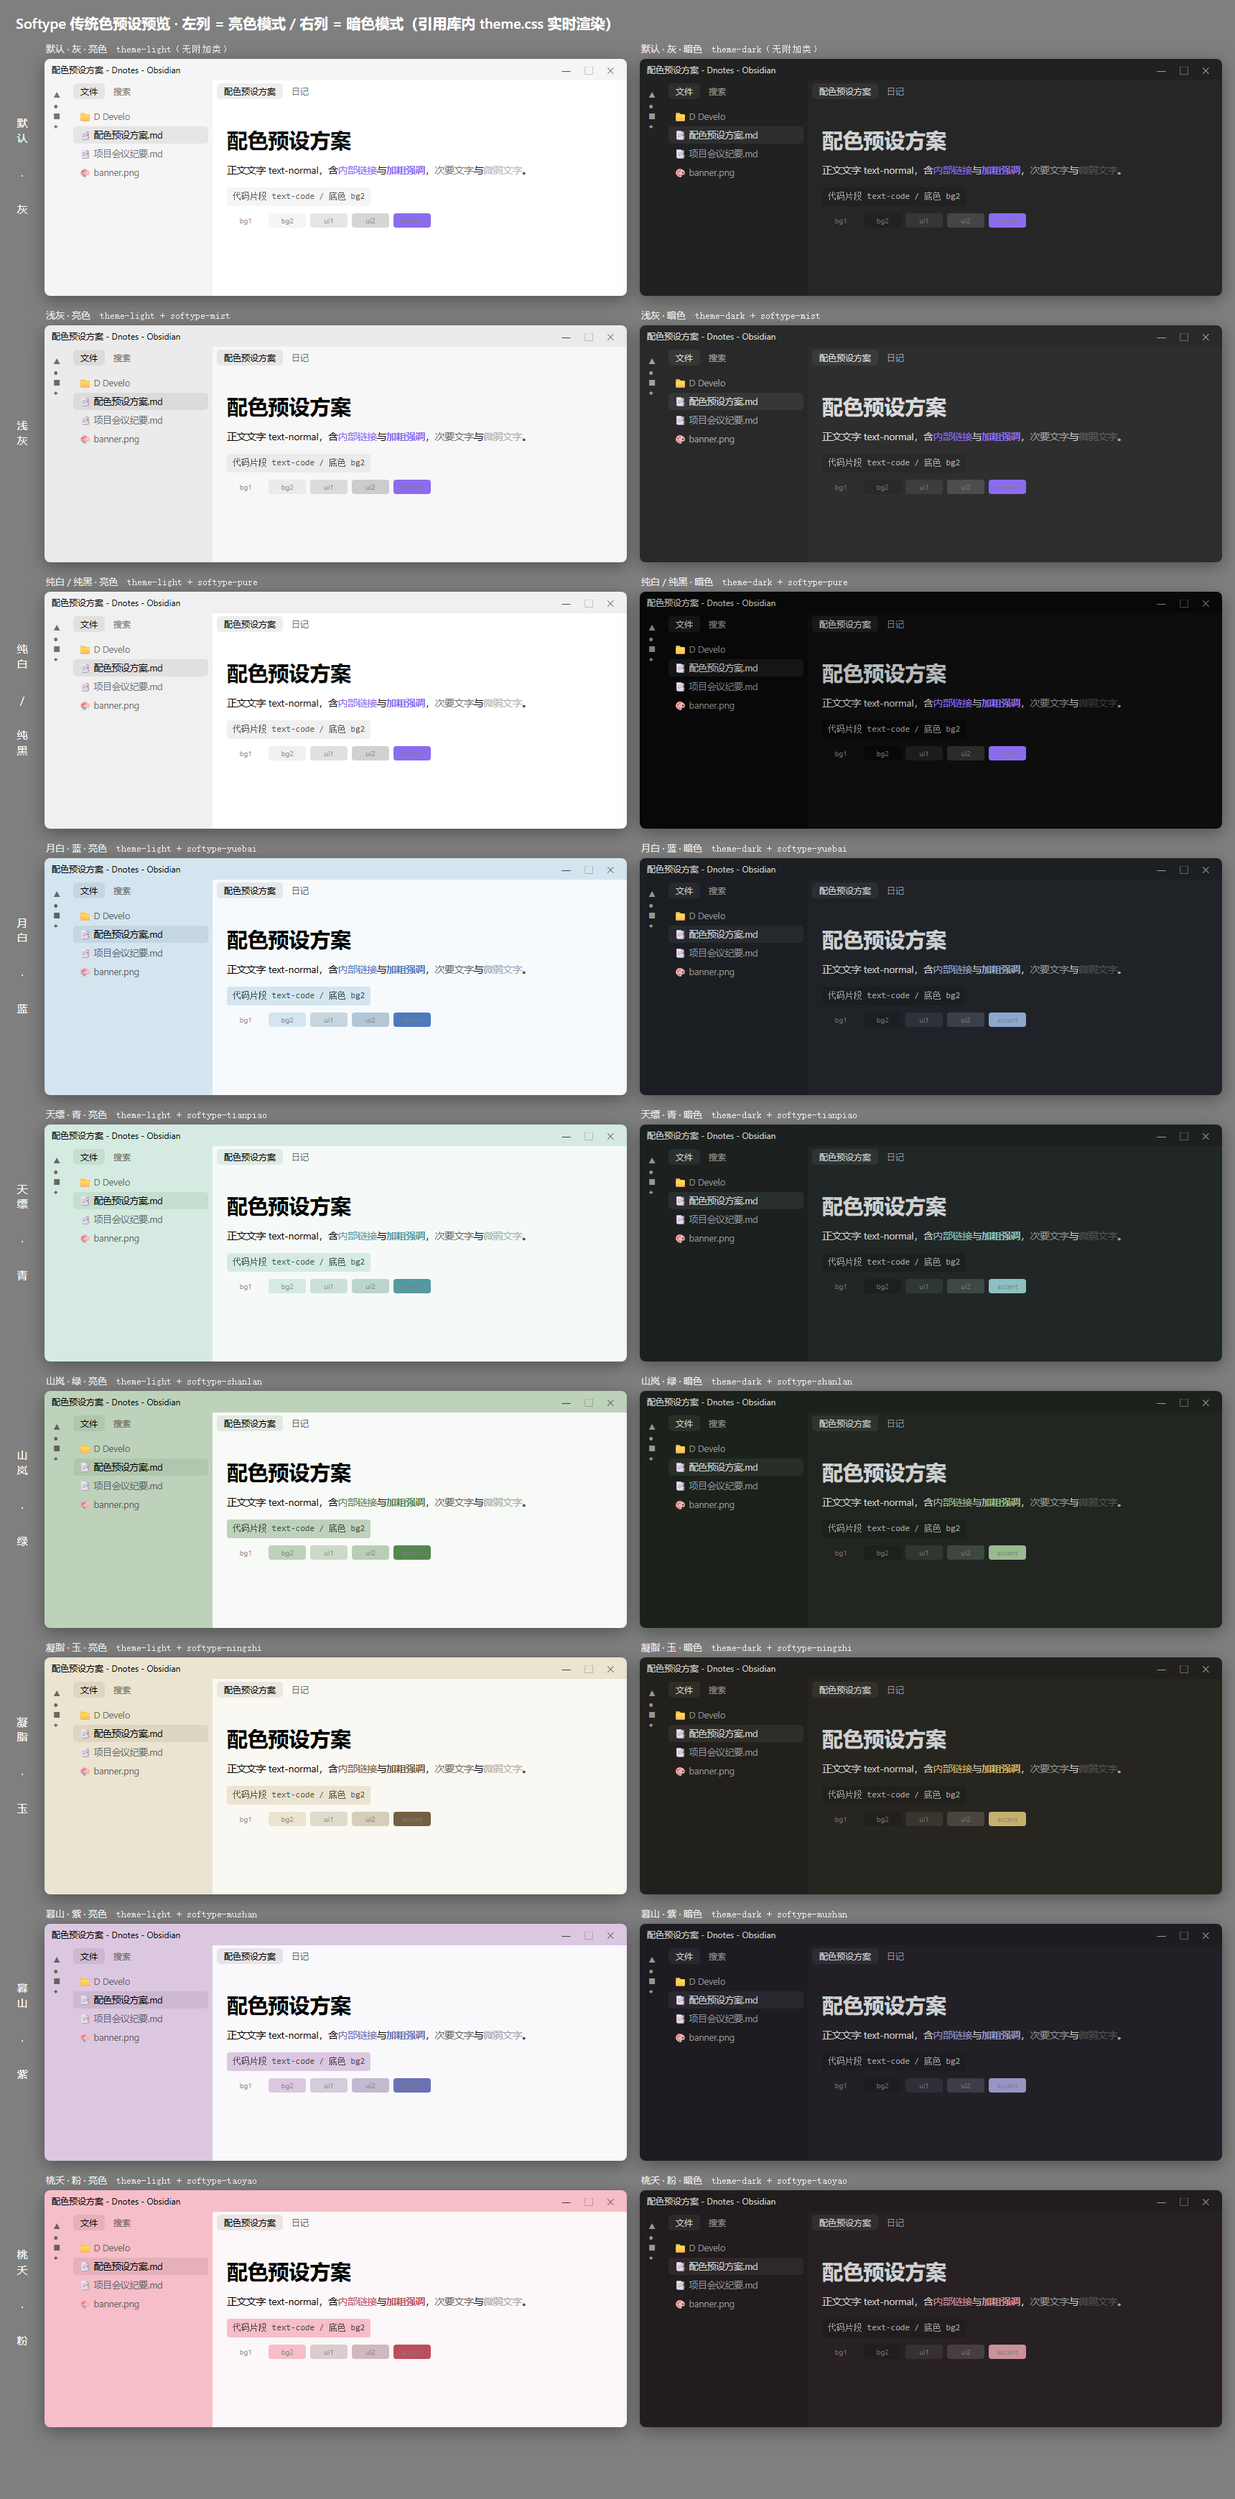
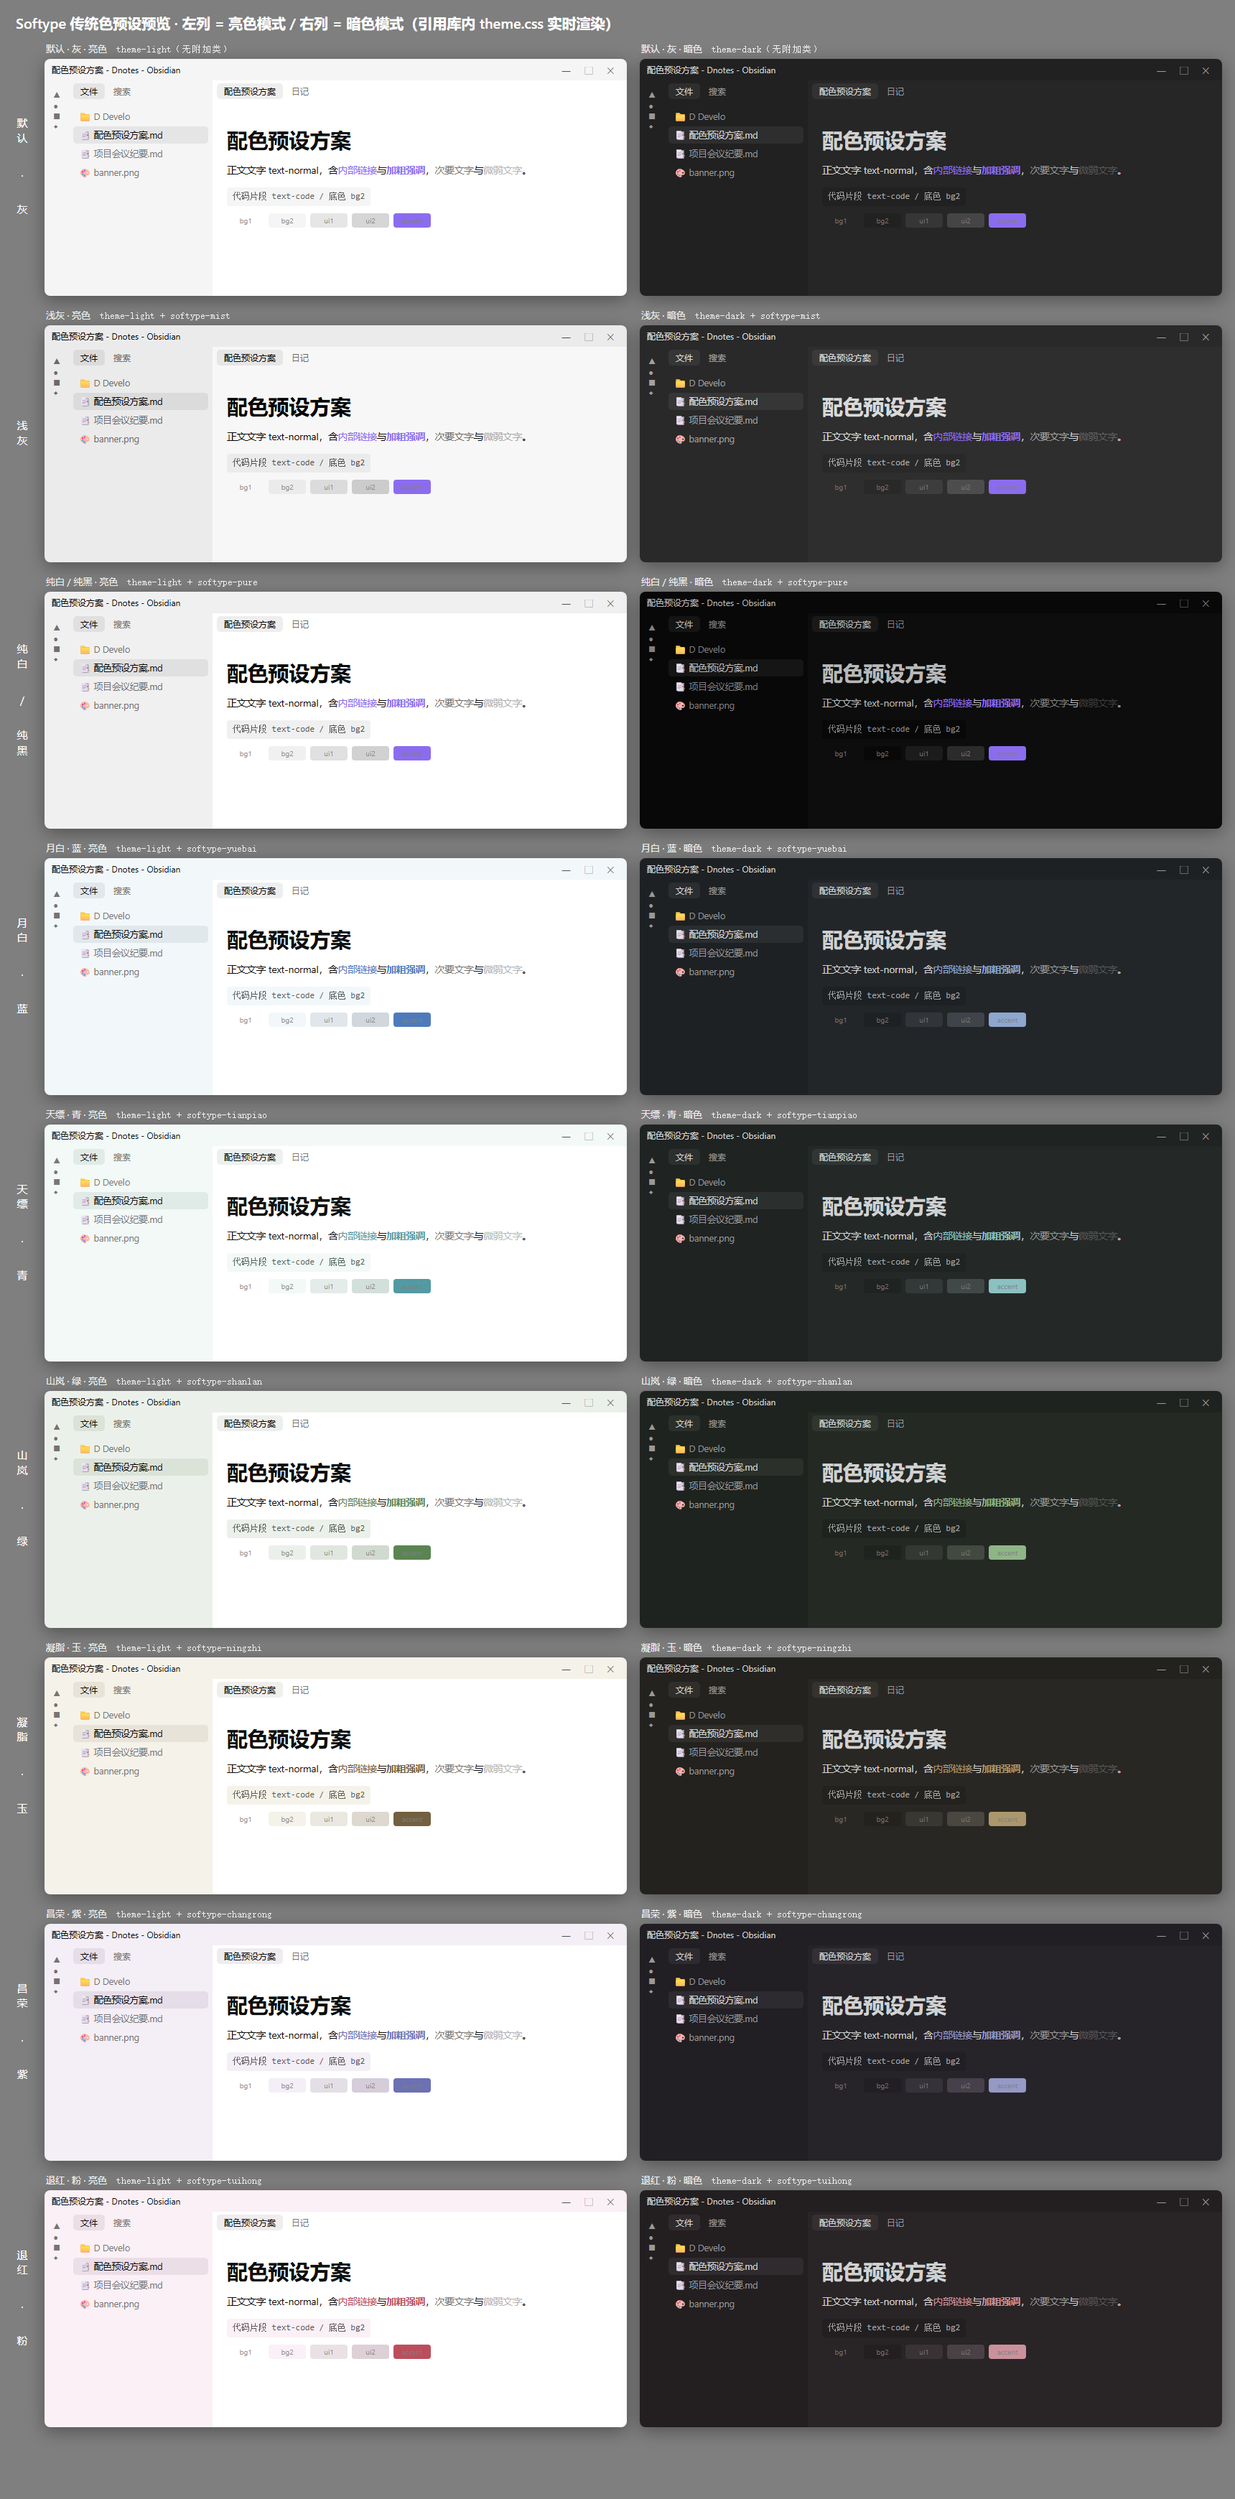
v0.3.1: lighten Chinese-color presets by 70% white mix for true pastel look

Changed region(s): [[0.0308, 0.3414, 0.5238, 0.6517], [0.0308, 0.7448, 0.5238, 0.9931], [0.8012, 0.7138, 0.832, 0.7448]]

diff --git a/theme.css b/theme.css
@@ -1827,31 +1827,32 @@ body {
 
 
 /* ==========================================================================
-   ███ 功能模块 004：Style Settings 配色预设（自建，2026-10-04；v4 重构 2026-10-05）███
-   作用：配合 Style Settings 插件，在「设置 → Style Settings → Softype」里
-         一键切换整体配色。共 9 个预设：默认·灰 / 浅灰 / 纯白·纯黑（中性色，
-         保留）+ 月白·蓝 / 天缥·青 / 山岚·绿 / 凝脂·玉 / 暮山·紫 / 桃夭·粉
-         （中国传统色，v4 新建）。每个预设同时适配亮色与暗色模式；
-         「左栏 = bg2、其余区域 = bg1」的两大色块结构保持不变。
-   v4 设计原则（用户 2026-10-05 定「简约 + 护眼」，否决前版索拉/常青的强色感）：
-         ① 亮色模式主区 = 极浅色系白（明度 ≥96%），不抢视线；
-         ② 左栏 = 色韵网站收录的浅传统色原值，承担色相与分色；
-         ③ 暗色模式 = 同色相低饱和深灰（饱和度 ≤12%），不做高饱和深色；
-         ④ 强调色取该色系中间调（ muted、可读），不取高饱和色。
-   色值来源：色韵 cncolor.art（中国传统色大全 384 色，2026-10-05 逐色取 HEX）——
-         月白 #D4E5EF / 天缥 #D5EBE1 / 山岚 #BED2BB / 玉色 #EAE4D1 /
-         昌荣 #DCC7E1 / 桃夭 #F6BEC8；强调色：监德 #6F94CD / 天水碧 #5AA4AE /
-         伽罗 #6D5C3D / 紫苑 #757CBB / 美人祭 #C35C6A 等。
-   原理：模块 001/002 的全部颜色都由 --base-h/s/l 三个 HSL 参数推导，
-         预设只覆盖这几个参数，另显式覆盖 --bg1（与需要精确还原传统色的
-         --bg2）。双类选择器 .theme-light.softype-xxx（优先级 0,2,0）高于
-         模块 001/002 的 .theme-light（0,1,0）与 body（0,0,1），天然胜出。
+   ███ 功能模块 004：Style Settings 配色预设（v5 淡彩修正 2026-10-05）███
+   作用：配合 Style Settings 插件一键切换整体配色。共 9 个预设：默认·灰 /
+         浅灰 / 纯白·纯黑（保留）+ 月白·蓝 / 天缥·青 / 山岚·绿 / 凝脂·玉 /
+         昌荣·紫 / 退红·粉（v5 全部按「淡彩」标准重建）。
+   v5 设计原则（2026-10-05 用户反馈「还要浅 50% 才算淡彩」后修正）：
+         ① 亮色模式主区 = 纯白 #FFFFFF，把颜色压到最低；
+         ② 左栏 = cncolor.art 浅色传统色混入 70% 白色后的极淡色（L* ≥94、
+            C*ab ≤7），只留一丝色相，承担左右分色；
+         ③ 强调色仍用同色系网站原色，但只取中间 muted 调，保证在纯白主区上
+            可读；
+         ④ 暗色模式 = 同色相低饱和深灰（S ≤10%、L ≈15%），继续保持护眼。
+   色值来源：色韵 cncolor.art（2026-10-05 逐色取 HEX）。
+   左栏推导（70% 白混合，sRGB 线性插值）：
+     月白 #D4E5EF → #F2F7FA   天缥 #D5EBE1 → #F2F9F6
+     山岚 #BED2BB → #EBF1EA   凝脂 #F5F2E9 → #F5F2E9（已够淡，直接用）
+     昌荣 #DCC7E1 → #F4EEF6   退红 #F0CFE3 → #FAF0F6
+   强调色（网站原值）：监德 #6F94CD / 天水碧 #5AA4AE / 庭芜绿 #68945C /
+                       伽罗 #6D5C3D / 紫苑 #757CBB / 美人祭 #C35C6A。
+   原理：模块 001/002 颜色由 --base-h/s/l 推导，预设覆盖这三个参数，并显式
+         设置 --bg1/--bg2。双类选择器 .theme-light.softype-xxx（0,2,0）高于
+         模块 001/002 默认规则，天然胜出。强调色必须重声明 --color-accent
+         及 -1/-2（原因见 v1 注释）。
    边界：只动底色 / 边框 / 文字灰阶与强调色；callout 卡片、彩虹文件夹图标等
-         固定色不变。强调色重声明 --color-accent 的理由见 v1 注释
-         （CSS 自定义属性在「被设置的元素」上即完成计算，必须连公式一起覆盖）。
-         注意：「设置 → 外观 → 强调色」手动指定过颜色时（当前为 #789696），
-         那是 body 内联样式，会盖住各预设的强调色（底色不受影响）。
-   拆除方法：整段删除（从本注释至「功能模块 004 完」）即恢复原状。
+         固定色不变。若用户在「设置 → 外观 → 强调色」手动指定过颜色，该内联
+         样式仍会盖住各预设的强调色（底色不受影响）。
+   拆除方法：从本注释到「功能模块 004 完」整段删除即恢复原状。
    ========================================================================== */
 
 /* @settings
@@ -1870,7 +1871,7 @@ settings:
 		id: softype-color-preset
 		title: 配色风格
 		title.en: Color scheme
-		description: 一键切换整体配色；每个预设同时适配亮色与暗色模式（随外观模式自动生效）。「默认·灰」为 Softype 原始配色；后六套为浅传统色（色韵 cncolor.art）。
+		description: 一键切换整体配色；每个预设同时适配亮色与暗色模式（随外观模式自动生效）。「默认·灰」为 Softype 原始配色；后六套为淡彩中国传统色（色韵 cncolor.art）。
 		description.en: One-click color schemes. Each preset adapts to both light and dark mode automatically.
 		type: class-select
 		allowEmpty: false
@@ -1898,19 +1899,17 @@ settings:
 				label: 凝脂 · 玉
 				value: softype-ningzhi
 			-
-				label: 暮山 · 紫
-				value: softype-mushan
+				label: 昌荣 · 紫
+				value: softype-changrong
 			-
-				label: 桃夭 · 粉
-				value: softype-taoyao
+				label: 退红 · 粉
+				value: softype-tuihong
 
 */
 
-/* ---- 预设：默认 · 灰 softype-default ----
-   无任何 CSS 规则：选中即恢复模块 001/002 的原始 Minimal 灰调。 */
+/* ---- 预设：默认 · 灰 softype-default ---- */
 
-/* ---- 预设：浅灰 softype-mist ----
-   亮色：主区 #F7F7F7、左栏 #EBEBEB；暗色：主区 18% 灰、左栏 16%。 */
+/* ---- 预设：浅灰 softype-mist ---- */
 .theme-light.softype-mist {
 	--base-l: 92%;
 	--bg1: hsl(0, 0%, 97%);
@@ -1919,8 +1918,7 @@ settings:
 	--base-l: 18%;
 }
 
-/* ---- 预设：纯白 / 纯黑 softype-pure ----
-   亮色：主区纯白 #FFFFFF、左栏 #F0F0F0；暗色：主区 5% 近纯黑、左栏 3%。 */
+/* ---- 预设：纯白 / 纯黑 softype-pure ---- */
 .theme-light.softype-pure {
 	--base-l: 94%;
 	--bg1: hsl(0, 0%, 100%);
@@ -1930,14 +1928,14 @@ settings:
 }
 
 /* ---- 预设：月白 · 蓝 softype-yuebai ----
-   亮色：主区 #F7FAFC 蓝白、左栏 #D4E5EF 月白（小雪）；强调色监德 #6F94CD 系。
-   暗色：蓝灰黑底 + 浅雾蓝强调。 */
+   来源色：月白 #D4E5EF（小雪）；左栏 = 混入 70% 白后的 #F2F7FA。
+   强调色：监德 #6F94CD（立秋）。 */
 .theme-light.softype-yuebai {
 	--base-h: 205;
-	--base-s: 30%;
-	--base-l: 89%;
-	--bg1: #F7FAFC;
-	--bg2: #D4E5EF;
+	--base-s: 16%;
+	--base-l: 96%;
+	--bg1: #FFFFFF;
+	--bg2: #F2F7FA;
 	--accent-h: 216;
 	--accent-s: 45%;
 	--accent-l: 52%;
@@ -1946,9 +1944,9 @@ settings:
 	--color-accent-2: hsl(var(--accent-h), var(--accent-s), calc(var(--accent-l) + 20%));
 }
 .theme-dark.softype-yuebai {
-	--base-h: 218;
-	--base-s: 12%;
-	--base-l: 14%;
+	--base-h: 215;
+	--base-s: 8%;
+	--base-l: 15%;
 	--accent-h: 216;
 	--accent-s: 40%;
 	--accent-l: 68%;
@@ -1958,15 +1956,14 @@ settings:
 }
 
 /* ---- 预设：天缥 · 青 softype-tianpiao ----
-   亮色：主区 #F5FAF8 青白、左栏 #D5EBE1 天缥（立春）；强调色天水碧 #5AA4AE 系
-        （与用户手设的 #789696 同族）。
-   暗色：青灰黑底 + 浅天碧强调。 */
+   来源色：天缥 #D5EBE1（立春）；左栏 = 混入 70% 白后的 #F2F9F6。
+   强调色：天水碧 #5AA4AE（处暑）。 */
 .theme-light.softype-tianpiao {
 	--base-h: 160;
-	--base-s: 25%;
-	--base-l: 90%;
-	--bg1: #F5FAF8;
-	--bg2: #D5EBE1;
+	--base-s: 18%;
+	--base-l: 97%;
+	--bg1: #FFFFFF;
+	--bg2: #F2F9F6;
 	--accent-h: 186;
 	--accent-s: 32%;
 	--accent-l: 48%;
@@ -1976,8 +1973,8 @@ settings:
 }
 .theme-dark.softype-tianpiao {
 	--base-h: 170;
-	--base-s: 8%;
-	--base-l: 14%;
+	--base-s: 6%;
+	--base-l: 15%;
 	--accent-h: 180;
 	--accent-s: 30%;
 	--accent-l: 65%;
@@ -1987,42 +1984,42 @@ settings:
 }
 
 /* ---- 预设：山岚 · 绿 softype-shanlan ----
-   亮色：主区 #F7FAF6 绿白、左栏 #BED2BB 山岚（大暑）；强调色竹绿。
-   暗色：绿灰黑底 + 浅竹绿强调。 */
+   来源色：山岚 #BED2BB（大暑）；左栏 = 混入 70% 白后的 #EBF1EA。
+   强调色：庭芜绿 #68945C（谷雨）。 */
 .theme-light.softype-shanlan {
 	--base-h: 110;
-	--base-s: 18%;
-	--base-l: 88%;
-	--bg1: #F7FAF6;
-	--bg2: #BED2BB;
-	--accent-h: 115;
-	--accent-s: 25%;
+	--base-s: 14%;
+	--base-l: 95%;
+	--bg1: #FFFFFF;
+	--bg2: #EBF1EA;
+	--accent-h: 110;
+	--accent-s: 24%;
 	--accent-l: 42%;
 	--color-accent: hsl(var(--accent-h), var(--accent-s), var(--accent-l));
 	--color-accent-1: hsl(var(--accent-h), var(--accent-s), calc(var(--accent-l) + 10%));
 	--color-accent-2: hsl(var(--accent-h), var(--accent-s), calc(var(--accent-l) + 20%));
 }
 .theme-dark.softype-shanlan {
-	--base-h: 120;
-	--base-s: 7%;
-	--base-l: 14%;
+	--base-h: 115;
+	--base-s: 6%;
+	--base-l: 15%;
 	--accent-h: 110;
-	--accent-s: 25%;
-	--accent-l: 65%;
+	--accent-s: 24%;
+	--accent-l: 62%;
 	--color-accent: hsl(var(--accent-h), var(--accent-s), var(--accent-l));
 	--color-accent-1: hsl(var(--accent-h), var(--accent-s), calc(var(--accent-l) + 10%));
 	--color-accent-2: hsl(var(--accent-h), var(--accent-s), calc(var(--accent-l) + 20%));
 }
 
 /* ---- 预设：凝脂 · 玉 softype-ningzhi ----
-   亮色：主区 #FAF8F2 玉白、左栏 #EAE4D1 玉色（白露）；强调色伽罗 #6D5C3D 系褐。
-   暗色：暖灰黑底 + 浅秋香强调。 */
+   来源色：凝脂 #F5F2E9（白露）；左栏直接使用（L* 已 ≈95.5，C*ab 4.7）。
+   强调色：伽罗 #6D5C3D（立冬）。 */
 .theme-light.softype-ningzhi {
 	--base-h: 45;
-	--base-s: 25%;
-	--base-l: 90%;
-	--bg1: #FAF8F2;
-	--bg2: #EAE4D1;
+	--base-s: 16%;
+	--base-l: 96%;
+	--bg1: #FFFFFF;
+	--bg2: #F5F2E9;
 	--accent-h: 38;
 	--accent-s: 28%;
 	--accent-l: 35%;
@@ -2032,25 +2029,25 @@ settings:
 }
 .theme-dark.softype-ningzhi {
 	--base-h: 40;
-	--base-s: 10%;
-	--base-l: 14%;
-	--accent-h: 45;
-	--accent-s: 45%;
-	--accent-l: 60%;
+	--base-s: 7%;
+	--base-l: 15%;
+	--accent-h: 40;
+	--accent-s: 28%;
+	--accent-l: 55%;
 	--color-accent: hsl(var(--accent-h), var(--accent-s), var(--accent-l));
 	--color-accent-1: hsl(var(--accent-h), var(--accent-s), calc(var(--accent-l) + 10%));
 	--color-accent-2: hsl(var(--accent-h), var(--accent-s), calc(var(--accent-l) + 20%));
 }
 
-/* ---- 预设：暮山 · 紫 softype-mushan ----
-   亮色：主区 #F9F8FB 紫白、左栏 #DCC7E1 昌荣（谷雨）；强调色紫苑 #757CBB 系。
-   暗色：紫灰黑底 + 浅烟紫强调。 */
-.theme-light.softype-mushan {
-	--base-h: 270;
-	--base-s: 20%;
-	--base-l: 89%;
-	--bg1: #F9F8FB;
-	--bg2: #DCC7E1;
+/* ---- 预设：昌荣 · 紫 softype-changrong ----
+   来源色：昌荣 #DCC7E1（谷雨）；左栏 = 混入 70% 白后的 #F4EEF6。
+   强调色：紫苑 #757CBB（大雪）。 */
+.theme-light.softype-changrong {
+	--base-h: 280;
+	--base-s: 15%;
+	--base-l: 95%;
+	--bg1: #FFFFFF;
+	--bg2: #F4EEF6;
 	--accent-h: 235;
 	--accent-s: 32%;
 	--accent-l: 56%;
@@ -2058,11 +2055,11 @@ settings:
 	--color-accent-1: hsl(var(--accent-h), var(--accent-s), calc(var(--accent-l) + 10%));
 	--color-accent-2: hsl(var(--accent-h), var(--accent-s), calc(var(--accent-l) + 20%));
 }
-.theme-dark.softype-mushan {
-	--base-h: 250;
-	--base-s: 9%;
-	--base-l: 14%;
-	--accent-h: 240;
+.theme-dark.softype-changrong {
+	--base-h: 270;
+	--base-s: 7%;
+	--base-l: 15%;
+	--accent-h: 235;
 	--accent-s: 30%;
 	--accent-l: 68%;
 	--color-accent: hsl(var(--accent-h), var(--accent-s), var(--accent-l));
@@ -2070,15 +2067,15 @@ settings:
 	--color-accent-2: hsl(var(--accent-h), var(--accent-s), calc(var(--accent-l) + 20%));
 }
 
-/* ---- 预设：桃夭 · 粉 softype-taoyao ----
-   亮色：主区 #FCF7F8 粉白、左栏 #F6BEC8 桃夭（惊蛰）；强调色美人祭 #C35C6A 系。
-   暗色：粉灰黑底 + 浅桃粉强调。 */
-.theme-light.softype-taoyao {
-	--base-h: 345;
-	--base-s: 20%;
-	--base-l: 89%;
-	--bg1: #FCF7F8;
-	--bg2: #F6BEC8;
+/* ---- 预设：退红 · 粉 softype-tuihong ----
+   来源色：退红 #F0CFE3（处暑）；左栏 = 混入 70% 白后的 #FAF0F6。
+   强调色：美人祭 #C35C6A（大雪）。 */
+.theme-light.softype-tuihong {
+	--base-h: 330;
+	--base-s: 16%;
+	--base-l: 96%;
+	--bg1: #FFFFFF;
+	--bg2: #FAF0F6;
 	--accent-h: 352;
 	--accent-s: 45%;
 	--accent-l: 52%;
@@ -2086,10 +2083,10 @@ settings:
 	--color-accent-1: hsl(var(--accent-h), var(--accent-s), calc(var(--accent-l) + 10%));
 	--color-accent-2: hsl(var(--accent-h), var(--accent-s), calc(var(--accent-l) + 20%));
 }
-.theme-dark.softype-taoyao {
-	--base-h: 340;
-	--base-s: 8%;
-	--base-l: 14%;
+.theme-dark.softype-tuihong {
+	--base-h: 330;
+	--base-s: 6%;
+	--base-l: 15%;
 	--accent-h: 350;
 	--accent-s: 35%;
 	--accent-l: 68%;

diff --git a/README.md b/README.md
@@ -45,7 +45,7 @@ A soft, minimal Obsidian theme made for long writing sessions — pastel palette
 ### Known limits
 
 - If you set a custom color in **Settings → Appearance → Accent color**, it overrides the preset's accent — Obsidian applies it inline on `body`.
-- The six new color presets are based on light tints of Chinese traditional colors from [cncolor.art](https://cncolor.art/colors); their dark variants are low-saturation greys of the same hue to stay eye-friendly.
+- The six new color presets are based on very light tints of Chinese traditional colors from [cncolor.art](https://cncolor.art/colors). The sidebar (g2) is mixed with 70% white, and the main note area (g1) stays pure white, so the overall feel stays pastel and eye-friendly. Dark variants remain low-saturation greys of the same hue.
 
 ### License
 
@@ -96,7 +96,7 @@ A soft, minimal Obsidian theme made for long writing sessions — pastel palette
 ### 已知边界
 
 - 如果你在 **设置 → 外观 → 强调色** 里手动指定过颜色，它会盖住预设的强调色（Obsidian 把该颜色写在内联样式里，作用在 `body` 上）。
-- 新增的六套配色以 [色韵·中国传统色大全](https://cncolor.art/colors) 的浅色传统色为基底；暗色版按同色相低饱和深灰推导，避免刺眼。
+- 新增的六套配色以 [色韵·中国传统色大全](https://cncolor.art/colors) 的浅色传统色为基底，左栏（bg2）是来源色混入 70% 白色后的极淡色，主区（bg1）保持纯白，整体呈淡彩感；暗色版按同色相低饱和深灰推导，避免刺眼。
 
 ### 主题为什么叫 Softype
 
